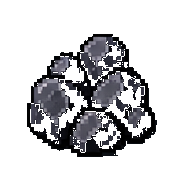
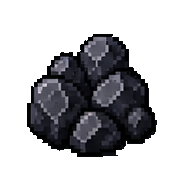
Repair coal sprite transparency and theme rewards by item color

diff --git a/components/Game.tsx b/components/Game.tsx
@@ -1,6 +1,7 @@
 "use client";
 /* eslint-disable @next/next/no-img-element */
 import {
+  type CSSProperties,
   createContext,
   useContext,
   useCallback,
@@ -29,6 +30,7 @@ import {
   UserRound,
   X,
 } from "lucide-react";
+import { rewardColors } from "@/lib/reward-colors";
 import { items, icon, maxCraft } from "@/lib/items";
 import { itemName, matchesItem } from "@/lib/discovery";
 import { itemDescriptions } from "@/lib/item-descriptions";
@@ -1000,7 +1002,14 @@ export default function Game() {
           </div>
         )}
         {reward !== null && !drawing && (
-          <div className="overlay">
+          <div
+            className="overlay reward-overlay"
+            style={
+              {
+                "--reward-color": rewardColors[reward] ?? "#526345",
+              } as CSSProperties
+            }
+          >
             <section className="modal reward">
               <h2>아이템 획득</h2>
               <div className="reward-art">

diff --git a/app/globals.css b/app/globals.css
@@ -1441,3 +1441,28 @@ button {
 .home .island {
   margin-bottom: 14px;
 }
+
+.reward-overlay {
+  background: color-mix(in srgb, var(--reward-color) 48%, transparent);
+}
+.reward {
+  background: color-mix(in srgb, var(--reward-color) 9%, #fffefa);
+  border-color: color-mix(in srgb, var(--reward-color) 45%, #fffefa);
+  color: color-mix(in srgb, var(--reward-color) 65%, #172019);
+}
+.reward .reward-art {
+  background: color-mix(in srgb, var(--reward-color) 19%, #fffefa);
+  border: 1px solid color-mix(in srgb, var(--reward-color) 30%, #fffefa);
+}
+.reward .badge {
+  background: color-mix(in srgb, var(--reward-color) 14%, #fffefa);
+  color: var(--reward-color);
+}
+.reward p,
+.reward .plain {
+  color: color-mix(in srgb, var(--reward-color) 75%, #354039);
+}
+.reward .primary {
+  background: var(--reward-color);
+  border-color: var(--reward-color);
+}

diff --git a/tests/items.test.ts b/tests/items.test.ts
@@ -82,6 +82,13 @@ test("original file preserved and 64 padded crops retain RGB pixels and restore 
         assert.equal(interior[pixel + 3], expected[pixel + 3]);
       else assert.ok(interior[pixel + 3] === 0 || interior[pixel + 3] === 255);
     }
+    if (id === 13) {
+      assert.equal(
+        interior[(70 * (edges[x + 1] - edges[x]) + 60) * 4 + 3],
+        255,
+      );
+      assert.equal(interior[(10 * (edges[x + 1] - edges[x]) + 10) * 4 + 3], 0);
+    }
     if (id === 4)
       assert.equal(
         interior[(150 * (edges[x + 1] - edges[x]) + 45) * 4 + 3],

diff --git a/lib/reward-colors.ts b/lib/reward-colors.ts
@@ -1,0 +1,27 @@
+// Accent colors follow the natural items' artwork; dark accents keep buttons readable.
+export const rewardColors = [
+  "#526345",
+  "#85502f",
+  "#527d24",
+  "#925132",
+  "#9b701c",
+  "#8d756e",
+  "#487529",
+  "#a05d31",
+  "#877663",
+  "#65716c",
+  "#a07830",
+  "#995b39",
+  "#b15e4f",
+  "#454552",
+  "#66768b",
+  "#ac522c",
+  "#6d7c91",
+  "#9b710c",
+  "#927b95",
+  "#b47712",
+  "#b7264c",
+  "#315abd",
+  "#17734d",
+  "#367fba",
+] as const;
